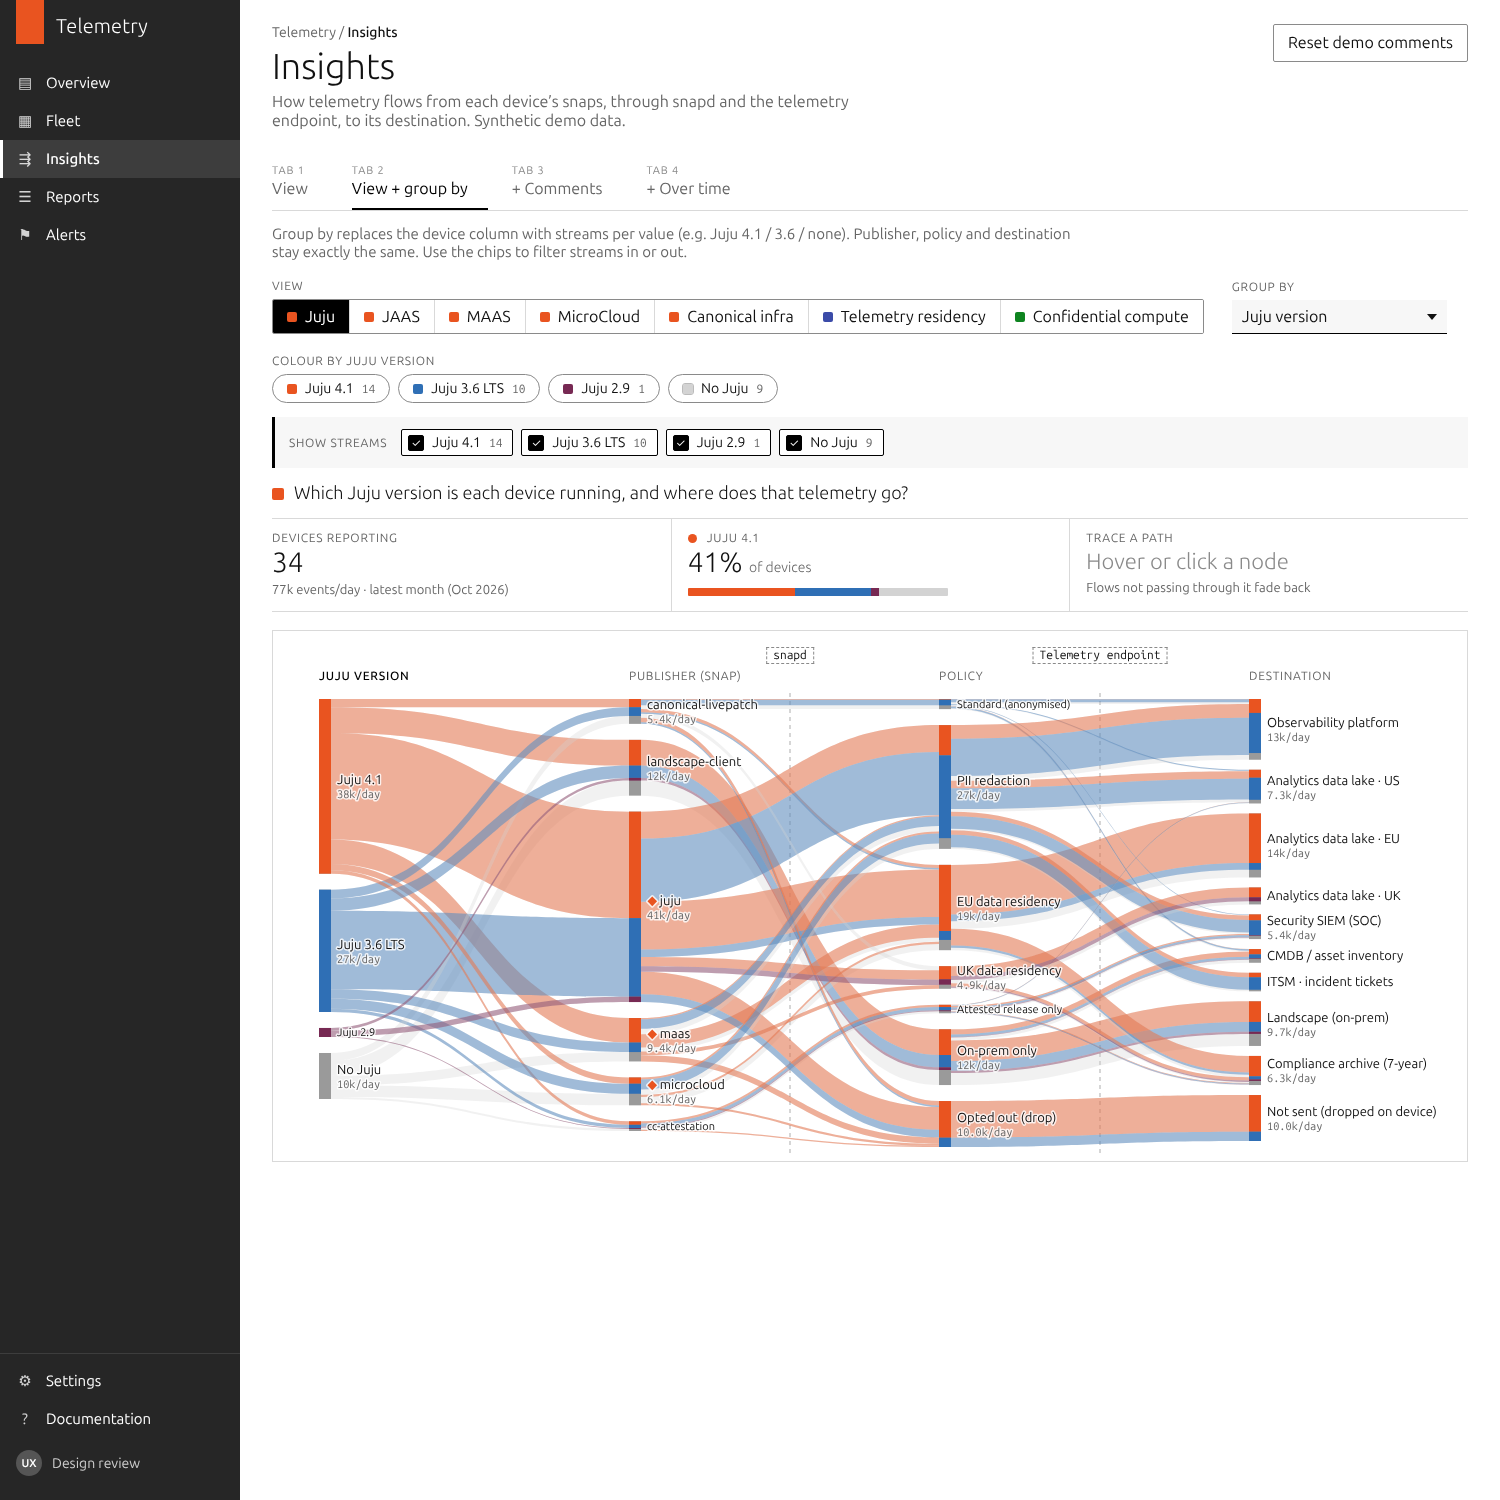
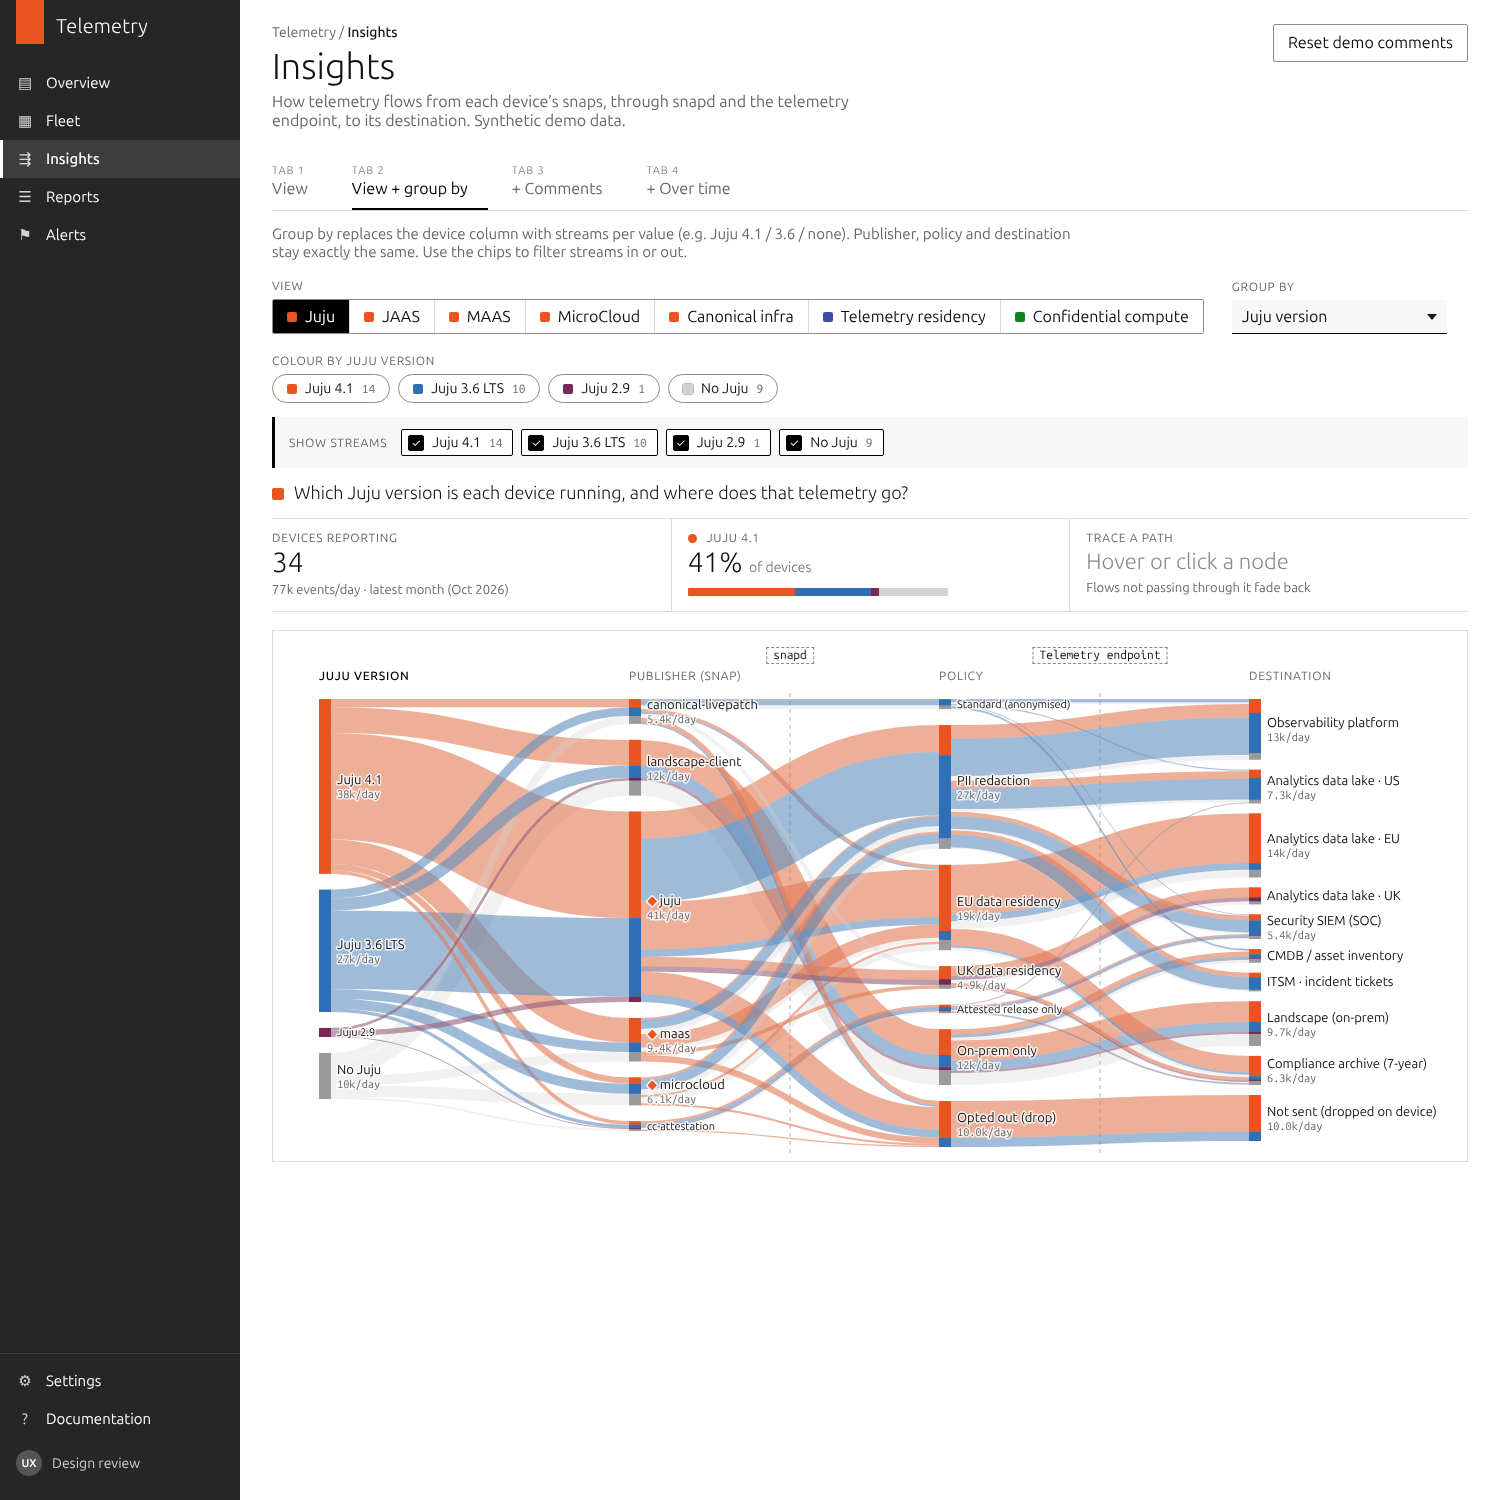
Keep flow thickness constant along each curve
Bands were filled between two vertically offset Béziers, which pinches
them where the curve is steep. Band edges are now offset along the
curve's normal, so every flow (and each coloured segment within it)
keeps the same thickness end to end and still meets nodes square.

Claude-Session: https://claude.ai/code/session_0156BKrAD5wHGfcWHmuamSMf

diff --git a/js/sankey.js b/js/sankey.js
@@ -115,13 +115,32 @@
   }
 
   // ---- Rendering ------------------------------------------------------
+  /*
+   * Band for a slice [offset, offset + w] of link l (measured from its top).
+   * The link's centre line is a cubic Bézier; the slice edges are offset
+   * along the curve's normal, so the band keeps a constant thickness even
+   * where the curve is steep (a plain vertical offset would pinch it).
+   * At both ends the tangent is horizontal, so the band meets nodes square.
+   */
+  const SAMPLES = 48;
   function band(l, offset, w) {
     const x0 = l.s.x + l.s.w, x1 = l.t.x, dx = x1 - x0;
-    const y0 = l.sy + offset, y1 = l.ty + offset;
-    // control points at 50% keep the top stream flat and let lower streams rise smoothly
     const c0 = x0 + dx * 0.5, c1 = x1 - dx * 0.5;
-    return 'M' + x0 + ',' + y0 + 'C' + c0 + ',' + y0 + ' ' + c1 + ',' + y1 + ' ' + x1 + ',' + y1 +
-      'L' + x1 + ',' + (y1 + w) + 'C' + c1 + ',' + (y1 + w) + ' ' + c0 + ',' + (y0 + w) + ' ' + x0 + ',' + (y0 + w) + 'Z';
+    const ya = l.sy + l.w / 2, yb = l.ty + l.w / 2;
+    const a = offset - l.w / 2, b = a + w;
+    const top = [], bot = [];
+    for (let i = 0; i <= SAMPLES; i++) {
+      const t = i / SAMPLES, mt = 1 - t;
+      const x = mt * mt * mt * x0 + 3 * mt * mt * t * c0 + 3 * mt * t * t * c1 + t * t * t * x1;
+      const y = (mt * mt * mt + 3 * mt * mt * t) * ya + (3 * mt * t * t + t * t * t) * yb;
+      const tx = 3 * mt * mt * (c0 - x0) + 6 * mt * t * (c1 - c0) + 3 * t * t * (x1 - c1);
+      const ty = 6 * mt * t * (yb - ya);
+      const len = Math.hypot(tx, ty) || 1;
+      const nx = -ty / len, ny = tx / len;
+      top.push((x + nx * a).toFixed(1) + ',' + (y + ny * a).toFixed(1));
+      bot.push((x + nx * b).toFixed(1) + ',' + (y + ny * b).toFixed(1));
+    }
+    return 'M' + top.join('L') + 'L' + bot.reverse().join('L') + 'Z';
   }
   function esc(s) { return String(s).replace(/[&<>"']/g, function (c) { return { '&': '&amp;', '<': '&lt;', '>': '&gt;', '"': '&quot;', "'": '&#39;' }[c]; }); }
   function fmt(n) {
